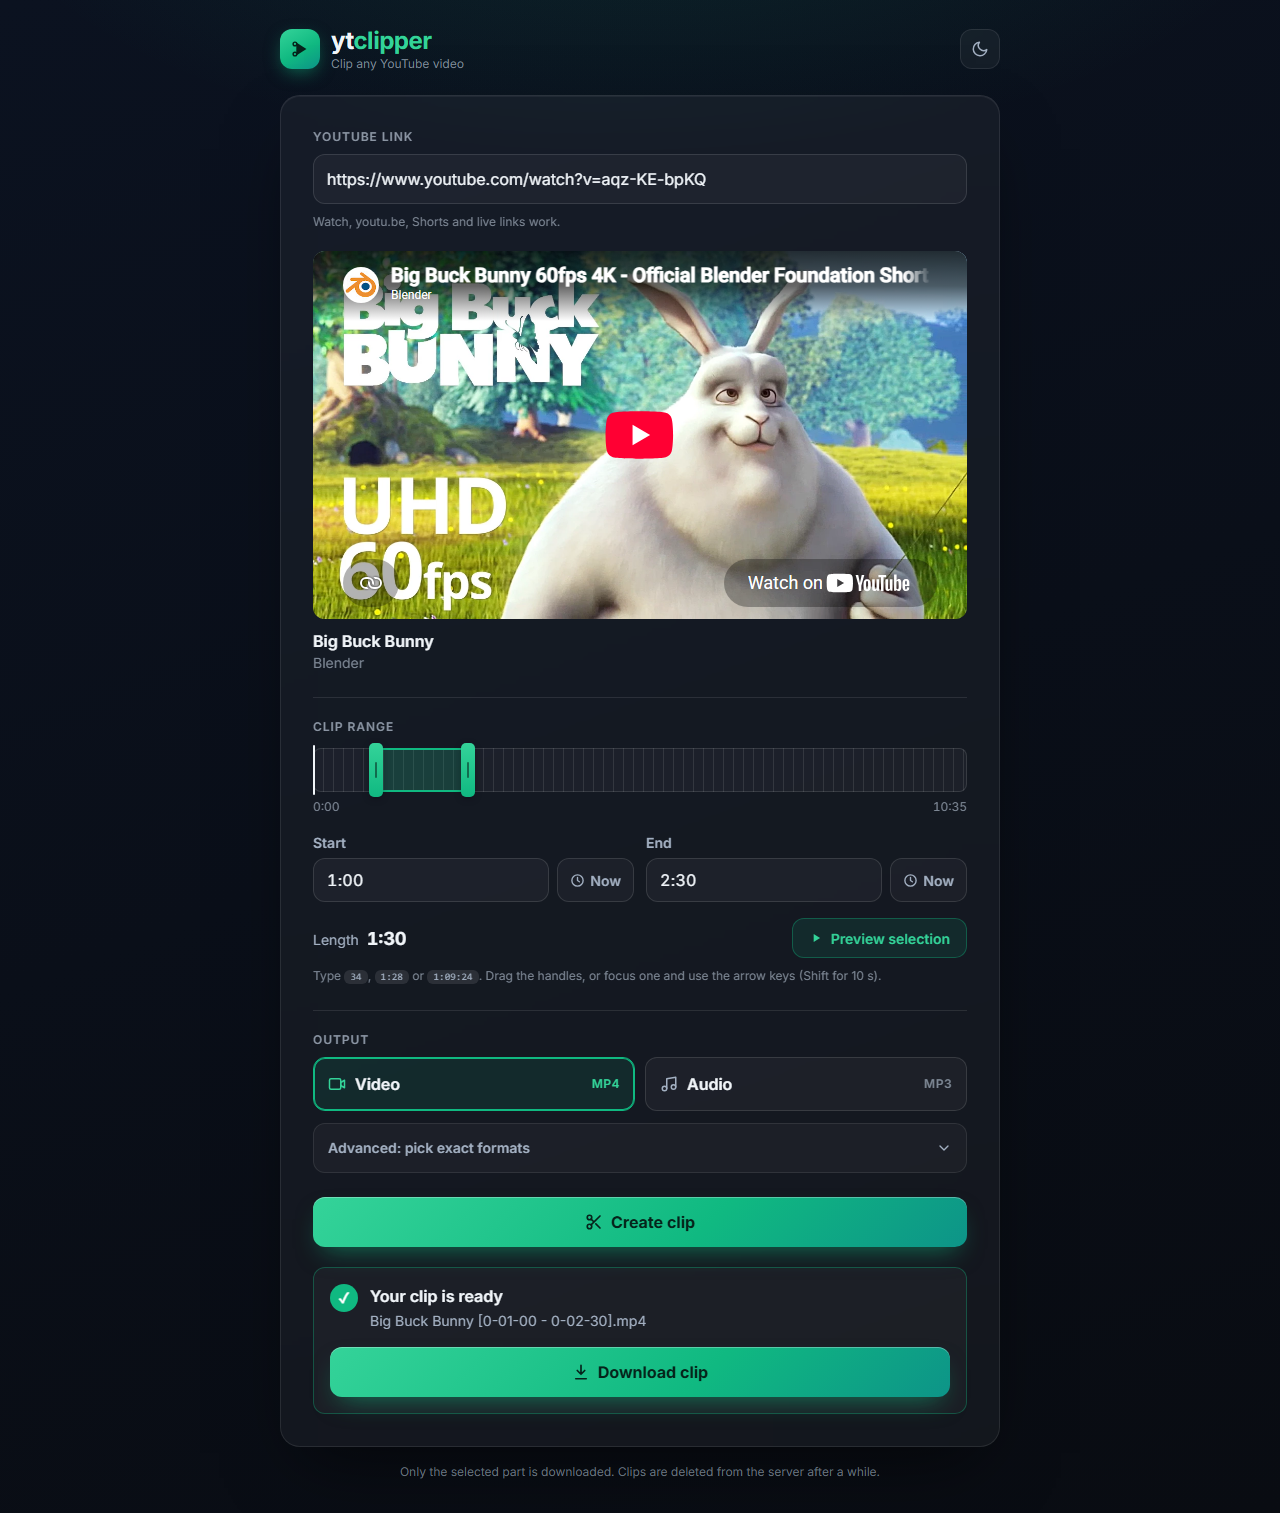
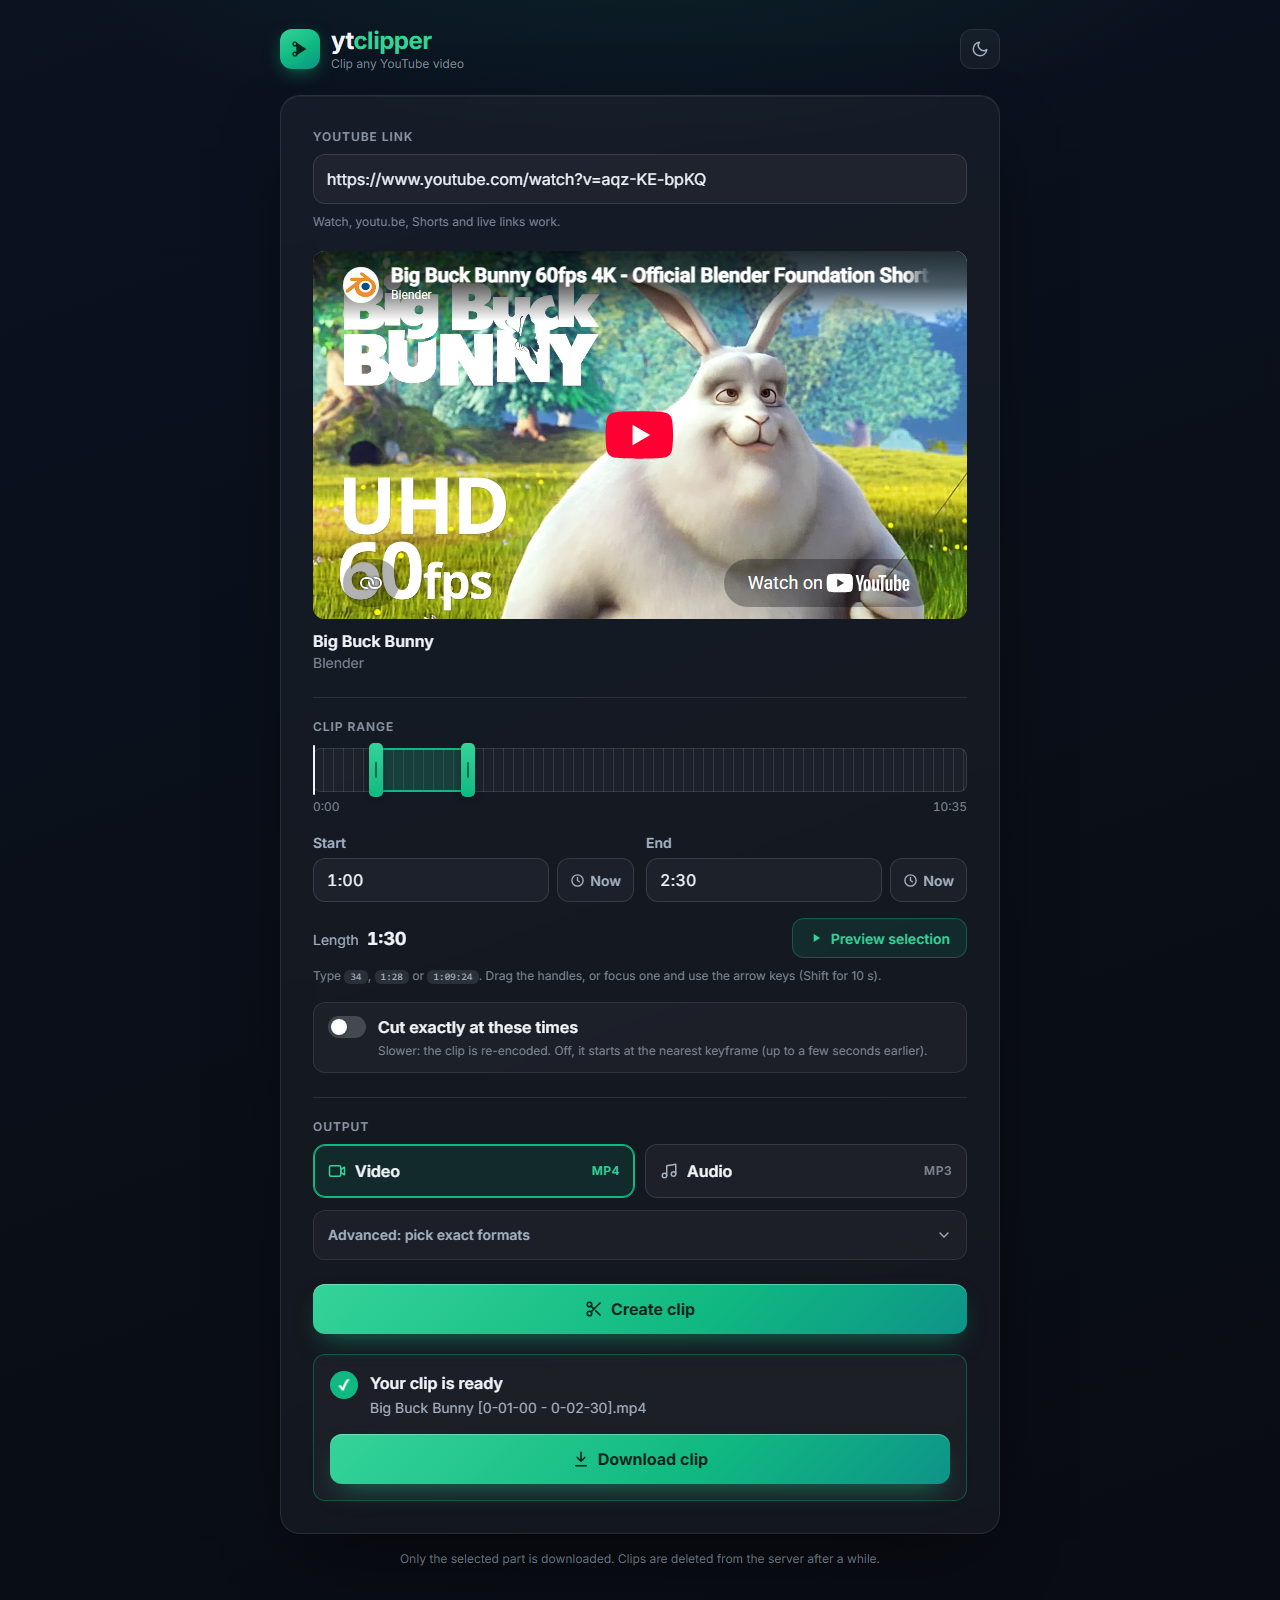
feat: precise cut switch under the clip range
A "Cut exactly at these times" switch under the clip range sends
preciseCut: true with the clip request, and the server adds yt-dlp's
--force-keyframes-at-cuts, so a video clip starts and ends exactly at the
chosen times instead of the keyframe before. It re-encodes, so it is off by
default and slower; the page remembers it in the browser. The switch only
shows when the clip has video (the audio preset or audio-only formats are
MP3, which is re-encoded anyway), and the server ignores it for the audio
preset.

README screenshots re-rendered with the new switch.

Closes #65

diff --git a/web/static/scripts/main.js b/web/static/scripts/main.js
@@ -59,6 +59,9 @@ const el = {
     previewLabel: $("previewLabel"),
     outputSection: $("outputSection"),
     presetOverride: $("presetOverride"),
+    presetGroup: $("presetGroup"),
+    preciseRow: $("preciseRow"),
+    preciseCut: $("preciseCut"),
     advanced: $("advanced"),
     advancedLoading: $("advancedLoading"),
     advancedError: $("advancedError"),
@@ -536,7 +539,35 @@ function updateOutputMode() {
     const active = Boolean(advancedFormat());
     el.outputSection.dataset.advanced = active ? "on" : "off";
     el.presetOverride.hidden = !active;
+    updatePreciseCut();
 }
+
+// cutsVideo tells whether the clip has a video stream, the only case where a
+// precise cut changes anything (MP3 clips are re-encoded anyway).
+function cutsVideo() {
+    if (advancedFormat()) return !el.streamsA.checked;
+    return (el.form.elements.preset.value || "video") === "video";
+}
+
+function updatePreciseCut() {
+    el.preciseRow.hidden = !cutsVideo();
+}
+
+// The precise-cut switch is remembered in this browser.
+const PRECISE_CUT_KEY = "ytclipper.preciseCut";
+try {
+    el.preciseCut.checked = localStorage.getItem(PRECISE_CUT_KEY) === "1";
+} catch {
+    // storage unavailable: start with the switch off
+}
+el.preciseCut.addEventListener("change", () => {
+    try {
+        localStorage.setItem(PRECISE_CUT_KEY, el.preciseCut.checked ? "1" : "0");
+    } catch {
+        // not remembered, that's fine
+    }
+});
+el.presetGroup.addEventListener("change", updatePreciseCut);
 
 function updateAdvancedState() {
     const { audioOnly, video, audioIncluded } = chosenFormats();
@@ -828,6 +859,7 @@ el.form.addEventListener("submit", (event) => {
     const format = advancedFormat();
     if (format) payload.format = format;
     else payload.preset = el.form.elements.preset.value || "video";
+    if (el.preciseCut.checked && cutsVideo()) payload.preciseCut = true;
     startJob(payload);
 });
 

diff --git a/web/static/css/styles.css b/web/static/css/styles.css
@@ -1227,3 +1227,75 @@ code {
 #clipButton {
     margin-top: var(--spacing-2xl);
 }
+
+/* Precise-cut switch under the clip range. */
+.precise-row {
+    display: flex;
+    gap: 12px;
+    align-items: flex-start;
+    margin-top: var(--spacing-lg);
+    padding: 12px 14px;
+    border: 1px solid var(--surface-border);
+    border-radius: var(--radius-lg);
+    background: var(--surface-raised);
+    cursor: pointer;
+}
+.precise-row[hidden] {
+    display: none;
+}
+.precise-text {
+    display: flex;
+    flex-direction: column;
+    gap: 2px;
+    min-width: 0;
+}
+.precise-title {
+    font-weight: 600;
+}
+.precise-text .helper-text {
+    margin: 0;
+}
+.switch {
+    position: relative;
+    flex: none;
+    width: 38px;
+    height: 22px;
+    margin-top: 1px;
+}
+.switch input {
+    position: absolute;
+    inset: 0;
+    width: 100%;
+    height: 100%;
+    margin: 0;
+    opacity: 0;
+    cursor: pointer;
+}
+.switch-track {
+    position: absolute;
+    inset: 0;
+    border-radius: var(--radius-pill);
+    background: var(--track-strong);
+    transition: background 0.2s ease;
+}
+.switch-track::after {
+    content: "";
+    position: absolute;
+    top: 3px;
+    left: 3px;
+    width: 16px;
+    height: 16px;
+    border-radius: 50%;
+    background: #fff;
+    box-shadow: 0 1px 3px rgba(0, 0, 0, 0.3);
+    transition: transform 0.2s ease;
+}
+.switch input:checked + .switch-track {
+    background: var(--accent);
+}
+.switch input:checked + .switch-track::after {
+    transform: translateX(16px);
+}
+.switch input:focus-visible + .switch-track {
+    box-shadow: 0 0 0 1px var(--focus-ring), 0 0 0 4px var(--accent-soft);
+}

diff --git a/web/templates/index.html b/web/templates/index.html
@@ -143,6 +143,18 @@
                         </button>
                     </div>
                     <p id="timeHint" class="helper-text">Type <code>34</code>, <code>1:28</code> or <code>1:09:24</code>. Drag the handles, or focus one and use the arrow keys (Shift for 10&nbsp;s).</p>
+
+                    <!-- Video only: MP3 clips are re-encoded anyway, so they are already exact. -->
+                    <label id="preciseRow" class="precise-row">
+                        <span class="switch">
+                            <input type="checkbox" id="preciseCut" role="switch" aria-describedby="preciseHint">
+                            <span class="switch-track" aria-hidden="true"></span>
+                        </span>
+                        <span class="precise-text">
+                            <span class="precise-title">Cut exactly at these times</span>
+                            <span id="preciseHint" class="helper-text">Slower: the clip is re-encoded. Off, it starts at the nearest keyframe (up to a few seconds earlier).</span>
+                        </span>
+                    </label>
                 </fieldset>
 
                 <fieldset id="outputSection" class="section">

diff --git a/web/static/scripts/api.js b/web/static/scripts/api.js
@@ -37,7 +37,8 @@ export async function getVideoInfo(youtubeUrl) {
     return response.json();
 }
 
-// createClip posts { url, from, to, preset | format } and returns the job id.
+// createClip posts { url, from, to, preset | format, preciseCut? } and returns
+// the job id.
 export async function createClip(payload) {
     const response = await send("/api/v1/clip", {
         method: "POST",

diff --git a/test/e2e/e2e_test.go b/test/e2e/e2e_test.go
@@ -28,6 +28,8 @@ const (
 	toInput        = chromedp.CSS(`#to`)
 	timeError      = chromedp.CSS(`#timeError`)
 	presetAudio    = chromedp.CSS(`#presetAudio`)
+	presetVideo    = chromedp.CSS(`#presetVideo`)
+	preciseCut     = chromedp.CSS(`#preciseCut`)
 	advancedToggle = chromedp.CSS(`#advanced summary`)
 	videoFormat136 = chromedp.CSS(`#videoFormats input[value="136"]`)
 	videoFormat18  = chromedp.CSS(`#videoFormats input[value="18"]`)
@@ -88,6 +90,50 @@ func TestAudioPreset(t *testing.T) {
 	}
 	if !strings.HasSuffix(fileName, ".mp3") {
 		t.Fatalf("expected an .mp3 file, got %q", fileName)
+	}
+}
+
+// TestPreciseCut: the switch is off by default, sends preciseCut when on,
+// disappears for the audio preset (MP3 is exact anyway) and is remembered in
+// the browser. Its own server gives it its own origin, so the remembered
+// switch can't leak into other tests.
+func TestPreciseCut(t *testing.T) {
+	t.Parallel()
+	s := ownServer(t, "precise", nil)
+	p := newPage(t, withServer(s.URL))
+	p.openVideo(watchURL(stubVideoID))
+	p.setRange("0:05", "0:15")
+
+	if p.hidden("preciseRow") || eval[bool](p, `document.getElementById("preciseCut").checked`) {
+		t.Fatal("expected the precise-cut switch to be shown and off for the video preset")
+	}
+	p.clip()
+	if post := p.lastClipPost(); post.PreciseCut {
+		t.Fatalf("preciseCut sent while the switch is off: %+v", post)
+	}
+
+	p.do("turning on precise cut", chromedp.Click(preciseCut))
+	p.clip()
+	if post := p.lastClipPost(); !post.PreciseCut || post.Preset != "video" {
+		t.Fatalf("expected preciseCut with the video preset, sent %+v", post)
+	}
+
+	p.do("choosing the audio preset", chromedp.Click(presetAudio))
+	if !p.hidden("preciseRow") {
+		t.Fatal("precise-cut switch shown for the audio preset")
+	}
+	p.clip()
+	if post := p.lastClipPost(); post.PreciseCut || post.Preset != "audio" {
+		t.Fatalf("expected no preciseCut for audio, sent %+v", post)
+	}
+	p.do("choosing the video preset", chromedp.Click(presetVideo))
+	if p.hidden("preciseRow") {
+		t.Fatal("precise-cut switch not shown again for the video preset")
+	}
+
+	p.openVideo(watchURL(stubVideoID)) // reloads the page
+	if !eval[bool](p, `document.getElementById("preciseCut").checked`) {
+		t.Fatal("the precise-cut switch was not remembered")
 	}
 }
 

diff --git a/internal/videoprocessing/videoprocessing.go b/internal/videoprocessing/videoprocessing.go
@@ -45,6 +45,9 @@ type ClipRequest struct {
 	To      string // HH:MM:SS
 	Preset  string // PresetVideo or PresetAudio
 	Format  string // yt-dlp format id, "137" or "137+140"
+	// PreciseCut re-encodes at the cut points so the clip starts and ends
+	// exactly at From and To, not at the nearest keyframe. Slower.
+	PreciseCut bool
 }
 
 // jobSlots limits how many clips are processed at once; further jobs wait in
@@ -56,13 +59,19 @@ var jobSlots = sync.OnceValue(func() chan struct{} {
 // formatArgs returns the yt-dlp arguments that select what to download. info
 // may be nil when the video info could not be loaded.
 func formatArgs(req ClipRequest, info *VideoInfo) []string {
+	var args []string
 	switch req.Preset {
 	case PresetVideo:
-		return []string{"-f", videoPresetFormat, "--merge-output-format", "mp4"}
+		args = []string{"-f", videoPresetFormat, "--merge-output-format", "mp4"}
 	case PresetAudio:
-		return []string{"-f", audioPresetFormat, "-x", "--audio-format", "mp3", "--audio-quality", "192K"}
+		args = []string{"-f", audioPresetFormat, "-x", "--audio-format", "mp3", "--audio-quality", "192K"}
+	default:
+		args = []string{"-f", resolveFormat(req.Format, info)}
 	}
-	return []string{"-f", resolveFormat(req.Format, info)}
+	if req.PreciseCut {
+		args = append(args, "--force-keyframes-at-cuts")
+	}
+	return args
 }
 
 // resolveFormat merges best audio into a single video-only format, so a

diff --git a/internal/api/validations_test.go b/internal/api/validations_test.go
@@ -166,6 +166,26 @@ func TestValidateCreateClipDto(t *testing.T) {
 	}
 }
 
+func TestValidateCreateClipDtoPreciseCut(t *testing.T) {
+	for _, tt := range []struct {
+		preset, format string
+		precise, want  bool
+	}{
+		{"video", "", true, true},
+		{"", "137+140", true, true},
+		{"audio", "", true, false}, // MP3 is re-encoded anyway
+		{"video", "", false, false},
+	} {
+		req, err := validateCreateClipDto(&CreateClipDTO{Url: "https://youtu.be/dQw4w9WgXcQ", From: "00:00:01", To: "00:00:05", Preset: tt.preset, Format: tt.format, PreciseCut: tt.precise})
+		if err != nil {
+			t.Fatal(err)
+		}
+		if req.PreciseCut != tt.want {
+			t.Errorf("preset %q format %q preciseCut %v: got %v, want %v", tt.preset, tt.format, tt.precise, req.PreciseCut, tt.want)
+		}
+	}
+}
+
 func TestValidateCreateClipDtoNormalizesTimes(t *testing.T) {
 	req, err := validateCreateClipDto(&CreateClipDTO{Url: "https://youtu.be/dQw4w9WgXcQ", From: "1:02:03", To: "1:02:13", Preset: "audio"})
 	if err != nil {

diff --git a/internal/api/clip.go b/internal/api/clip.go
@@ -17,12 +17,15 @@ const errServerBusy = "The server is busy, try again in a minute."
 
 // CreateClipDTO is the clip request. Exactly one of Preset ("video" or
 // "audio") and Format (a yt-dlp format id such as "137" or "137+140") is set.
+// PreciseCut re-encodes so the clip starts and ends exactly at From and To
+// instead of the nearest keyframe; it is ignored for the audio preset.
 type CreateClipDTO struct {
-	Url    string `json:"url" form:"url"`
-	From   string `json:"from" form:"from"`
-	To     string `json:"to" form:"to"`
-	Preset string `json:"preset" form:"preset"`
-	Format string `json:"format" form:"format"`
+	Url        string `json:"url" form:"url"`
+	From       string `json:"from" form:"from"`
+	To         string `json:"to" form:"to"`
+	Preset     string `json:"preset" form:"preset"`
+	Format     string `json:"format" form:"format"`
+	PreciseCut bool   `json:"preciseCut" form:"preciseCut"`
 }
 
 func CreateClip(c echo.Context) error {

diff --git a/internal/videoprocessing/videoprocessing_test.go b/internal/videoprocessing/videoprocessing_test.go
@@ -223,6 +223,20 @@ func TestFormatArgsPresets(t *testing.T) {
 	}
 }
 
+func TestFormatArgsPreciseCut(t *testing.T) {
+	video := formatArgs(ClipRequest{VideoID: "dQw4w9WgXcQ", Preset: PresetVideo, PreciseCut: true}, nil)
+	if video[len(video)-1] != "--force-keyframes-at-cuts" || video[0] != "-f" {
+		t.Errorf("video preset with precise cut = %v", video)
+	}
+	format := formatArgs(ClipRequest{VideoID: "dQw4w9WgXcQ", Format: "137+140", PreciseCut: true}, nil)
+	if !slices.Equal(format, []string{"-f", "137+140", "--force-keyframes-at-cuts"}) {
+		t.Errorf("format with precise cut = %v", format)
+	}
+	if plain := formatArgs(ClipRequest{VideoID: "dQw4w9WgXcQ", Format: "137+140"}, nil); hasFlag(plain, "--force-keyframes-at-cuts") {
+		t.Errorf("precise cut added without being asked for: %v", plain)
+	}
+}
+
 func TestFormatArgsAddsAudioToVideoOnlyFormat(t *testing.T) {
 	info, err := parseVideoInfo([]byte(infoFixture))
 	if err != nil {

diff --git a/internal/api/handlers_test.go b/internal/api/handlers_test.go
@@ -106,6 +106,16 @@ func TestGetVideoInfoRejectsInvalidURL(t *testing.T) {
 	}
 }
 
+func TestCreateClipAcceptsPreciseCut(t *testing.T) {
+	var dto CreateClipDTO
+	if err := json.Unmarshal([]byte(`{"url":"https://youtu.be/dQw4w9WgXcQ","from":"00:00:01","to":"00:00:05","preset":"video","preciseCut":true}`), &dto); err != nil {
+		t.Fatal(err)
+	}
+	if !dto.PreciseCut {
+		t.Fatal("preciseCut not read from the JSON body")
+	}
+}
+
 func TestCreateClipRejectsWhenQueueIsFull(t *testing.T) {
 	original := config.CONFIG.MaxQueuedJobs
 	config.CONFIG.MaxQueuedJobs = jobs.ActiveCount() // already full

diff --git a/test/e2e/browser_test.go b/test/e2e/browser_test.go
@@ -359,11 +359,12 @@ func (p *page) fetches(substr string) []fetchEntry {
 }
 
 type clipPayload struct {
-	URL    string `json:"url"`
-	Preset string `json:"preset"`
-	Format string `json:"format"`
-	From   string `json:"from"`
-	To     string `json:"to"`
+	URL        string `json:"url"`
+	Preset     string `json:"preset"`
+	Format     string `json:"format"`
+	From       string `json:"from"`
+	To         string `json:"to"`
+	PreciseCut bool   `json:"preciseCut"`
 }
 
 // clipPosts returns the bodies of every POST /api/v1/clip.

diff --git a/internal/api/validations.go b/internal/api/validations.go
@@ -113,5 +113,7 @@ func validateCreateClipDto(createClipDto *CreateClipDTO) (videoprocessing.ClipRe
 		To:      toHHMMSS,
 		Preset:  preset,
 		Format:  format,
+		// MP3 clips are re-encoded anyway, so they are already exact.
+		PreciseCut: createClipDto.PreciseCut && preset != videoprocessing.PresetAudio,
 	}, nil
 }
